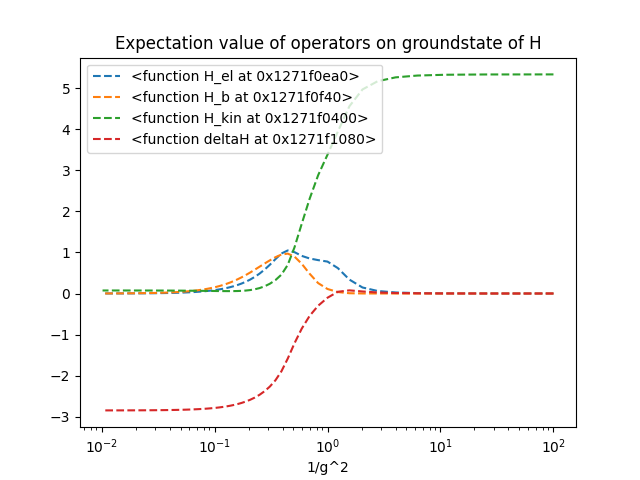
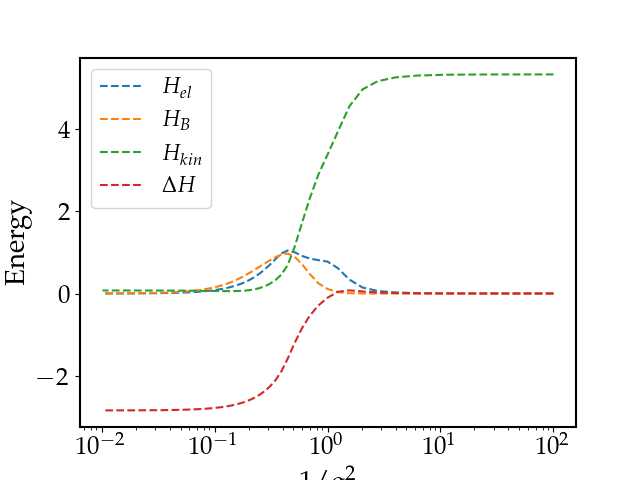
edits to plots

diff --git a/utils.py b/utils.py
@@ -18,21 +18,34 @@ from qutip import tensor, destroy, create, identity, entropy_mutual
 from qutip import *
 #from qutip.tensor import tensor
 import os
-#import winsound
+import winsound
 import pickle
 import matplotlib.colors as mcolors
 
-
+#Parameters for plots
+params = {'axes.linewidth': 1.4,
+         'axes.labelsize': 20,
+         'axes.titlesize': 25,
+         'axes.linewidth': 1.5,
+         'lines.markeredgecolor': "black",
+     	'lines.linewidth': 1.5,
+         'xtick.labelsize': 18,
+         'ytick.labelsize': 18,
+         "text.usetex": True,
+         "font.family": "serif",
+         "font.serif": ["Palatino"]
+         }
+plt.rcParams.update(params)
 
 
 n_modes=8
 cutoff=3
 
 def beep():
-    os.system("afplay /System/Library/Sounds/Ping.aiff")
+    #os.system("afplay /System/Library/Sounds/Ping.aiff")
     freq=800
     dur=500
-    #winsound.Beep(freq,dur)
+    winsound.Beep(freq,dur)
   
 
 
@@ -255,9 +268,10 @@ def exact_diagonalization_and_save(filename,savefig_name,hamiltonian,parameter,a
   plt.plot(parameter,result_energies,'r--', label=f'Energy of groundstate of H when a={a}')
   #plt.plot(parameter,result_times_vector,'b--', label='Time to diagonalize H')
   plt.xscale('log')
-  plt.xlabel('1/g^2')
+  plt.xlabel(r'$1/g^2$')
+  plt.ylabel('Groundstate energy')
   plt.legend(['Energy of g.s', 'Time to diagonalize'])
-  plt.title(f'Hamiltonian diagonalization when a={a}')
+  #plt.title(f'Hamiltonian diagonalization when a={a}')
   plt.savefig(savefig_name)
   plt.show()
     # A possible sanity check is to see that H with corrections is positive semidefinite (its lowest eigenvalue is greater than 0)
@@ -298,7 +312,7 @@ def plaquette_operator(g,a,N=1): #parameters=[a,N] where N is the number of plaq
         return x_gamma_dag*x_delta_dag*x_beta*x_alpha
     return (1/(2)) *(P_operator()+P_dag_operator())
 
-def expectation_value_on_gs(filename,savefig_name,observable_list, hamiltonian, parameter, *args): 
+def expectation_value_on_gs(filename,savefig_name,observable_list,legend_string, hamiltonian, parameter, *args): 
   exists_diag=input('is there a file with diagonalization of H?')
   if exists_diag=='False':
     result= exact_diagonalization_and_save(filename,filename,hamiltonian, parameter, *args)
@@ -321,9 +335,10 @@ def expectation_value_on_gs(filename,savefig_name,observable_list, hamiltonian, 
       y_vec_list[j]+=[qutip.expect(operator[i],states[i])]
     plt.plot(parameter, y_vec_list[j],linestyle='dashed')
   plt.xscale('log')
-  plt.xlabel('1/g^2')
-  plt.title('Expectation value of operators on groundstate of H')
-  plt.legend([item for item in observable_list])
+  plt.xlabel(r'$1/g^2$')
+  plt.ylabel('Energy')
+  #plt.title('Expectation value of operators on groundstate of H')
+  plt.legend(legend_string,fontsize=16)
   beep()
   plt.savefig(savefig_name)
   plt.show()
@@ -378,9 +393,11 @@ def plot_energy_gap(filename,hamiltonian,parameter,a,mu):  #if there is no diago
     full_diagonalization_and_save(filename,hamiltonian,parameter,a,mu)
 
   plt.plot(parameter,gaps,'r--')
-  plt.title('Gap between first and ground level')
+  #plt.title('Gap between first and ground level')
   plt.xscale('log')
-  plt.xlabel('1/g^2')
+  plt.yscale('log')
+  plt.xlabel(r'$1/g^2$')
+  plt.ylabel('Energy gap')
   plt.savefig('Energy gap')
   plt.show()
   return
@@ -443,14 +460,16 @@ def regime_comparison(filenameH, filename_el, filename_B,filename_kin, filename_
     magnetic_overlaps+=[np.abs(qutip.Qobj.overlap(result_vectors[i],magnetic_vectors[i]))]
     kinetic_overlaps+=[np.abs(qutip.Qobj.overlap(result_vectors[i],kinetic_vectors[i]))]
     delta_overlaps+=[np.abs(qutip.Qobj.overlap(result_vectors[i],delta_vectors[i]))]
-  plt.plot(parameter,delta_overlaps,color='orange', linestyle='dashed', label='overlap with deltaH ground states')
+  
   plt.plot(parameter,electric_overlaps,'r--', label='overlap with H_el groundstates')
   plt.plot(parameter,magnetic_overlaps,'b--', label='overlap with H_b ground states')
   plt.plot(parameter,kinetic_overlaps,'g--', label='overlap with H_kin ground states')
+  plt.plot(parameter,delta_overlaps,color='orange', linestyle='dashed', label='overlap with deltaH ground states')
   plt.xscale('log')
-  plt.xlabel('1/g^2')
-  plt.legend(['overlap with deltaH g.s','overlap with H_el groundstates', 'overlap with H_B groundstates', 'overlap with H_kin groundstates'],loc='center left')
-  plt.title('Regime comparison')
+  plt.xlabel(r'$1/g^2$')
+  plt.ylabel('Overlap')
+  plt.legend([r'$H_{e l}$',r'$H_{B}$',r'$H_{k i n}$', r'$\Delta H$'],fontsize=16)
+  #plt.title('Regime comparison')
   plt.savefig(savefig_name)
   plt.show()
 
@@ -477,9 +496,10 @@ def bipartite_ent_entropy_plot(filename, savefig_name, parameter,*args):
     entropies+=[entropy]
     print(parameter[i],entropy)
   plt.plot(parameter,entropies,'r--')
-  plt.title('Bipartite entanglement entropy of groundstate')
+  #plt.title('Bipartite entanglement entropy of groundstate')
   plt.xscale('log')
-  plt.xlabel('1/g^2')
+  plt.xlabel(r'$1/g^2$')
+  plt.ylabel('Entropy')
   plt.savefig(savefig_name)
   plt.show()
   return

diff --git a/test.py b/test.py
@@ -26,7 +26,7 @@ g_vec=np.arange(0.1,10,0.1) #free parameter
 
 #RUN ALL THE FOLLOWING 5 FUNCTIONS (BOTH FOR a=1 and for a=0)
 
-#exact_diagonalization_and_save(filename,f'diagonalisation a={int(a)}',H_plaquette,1/g_vec**2,a,mu)
+#exact_diagonalization_and_save('diagonalisation.pkl',f'diagonalisation a={int(a)}',H_plaquette,1/g_vec**2,a,mu)
 
 #exact_diagonalization_and_save('diag H_kin','diag H_kin',H_kin,1/g_vec**2,a,mu)
 #run these four functions:
@@ -39,11 +39,11 @@ g_vec=np.arange(0.1,10,0.1) #free parameter
 #y me falta todavía una funcion (que será eterna) para ver el scaling con el cutoff 
 
 #expectation_value_on_gs('diagonalisation_continuum.pkl', 'gauss law cont',[gauss_law_operator], H_plaquette, 1/g_vec**2)
-#expectation_value_on_gs('diagonalisation mu=10.plk','-H_b, plaquette mu=10',[minus_H_b,plaquette_operator], H_plaquette, 1/g_vec**2, a,10)
+expectation_value_on_gs('diagonalisation.pkl','-H_b, plaquette',[minus_H_b,plaquette_operator], [r'$-H_{B}$', r'Plaquette operator'],H_plaquette, 1/g_vec**2, a,1)
 
 #plot_energy_gap('full diag',H_plaquette,1/g_vec**2,a,mu)
 
-#expectation_value_on_gs('diagonalisation.pkl','contribution of H terms',[H_el,H_b,H_kin,deltaH], H_plaquette, 1/g_vec**2, a,mu)
+#expectation_value_on_gs('diagonalisation.pkl','contribution of H terms',[H_el,H_b,H_kin,deltaH], [r'$H_{e l}$',r'$H_{B}$',r'$H_{k i n}$', r'$\Delta H$'],H_plaquette, 1/g_vec**2, a,mu)
 
 #regime_comparison('diagonalisation.pkl', f'diag H_el a={int(a)}', 'diag H_b','diag H_kin','diag deltaH','regime_comparison', 1/g_vec**2,a,mu)
 
